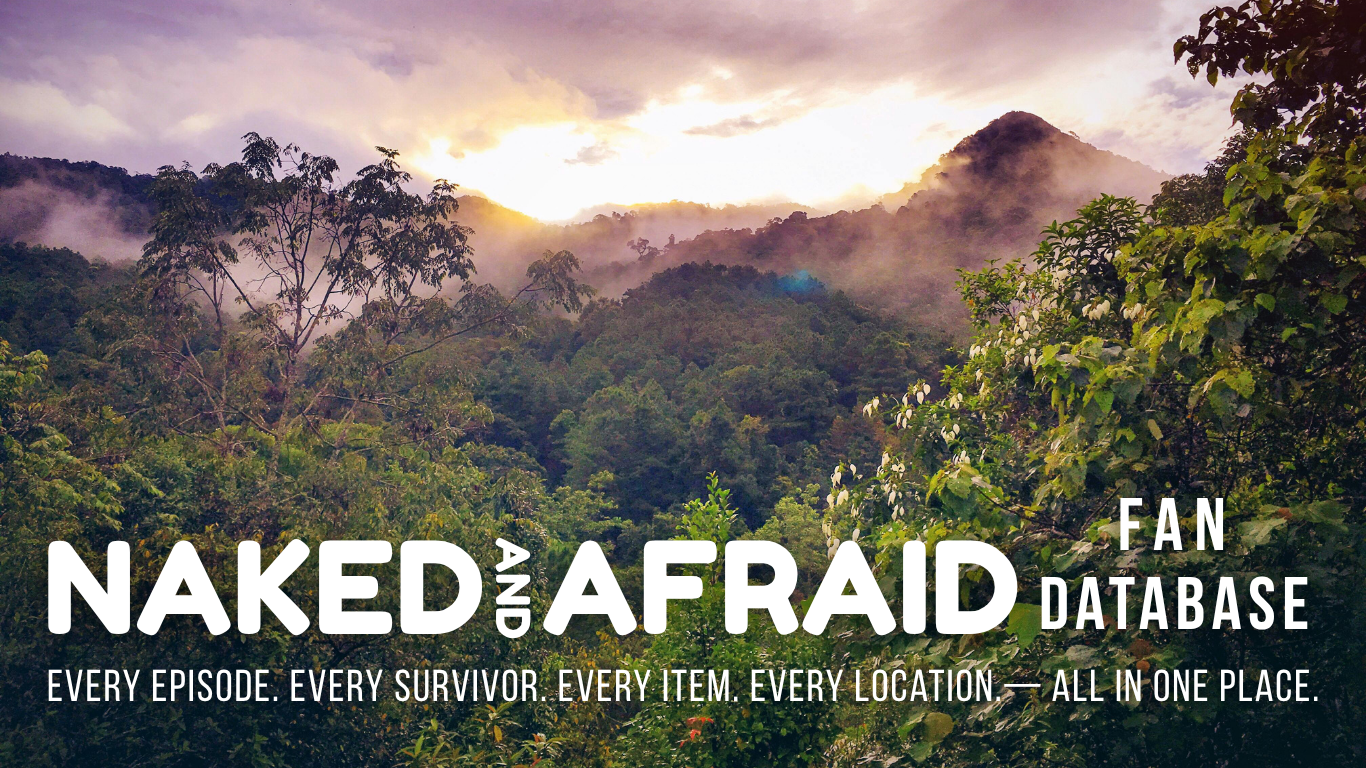
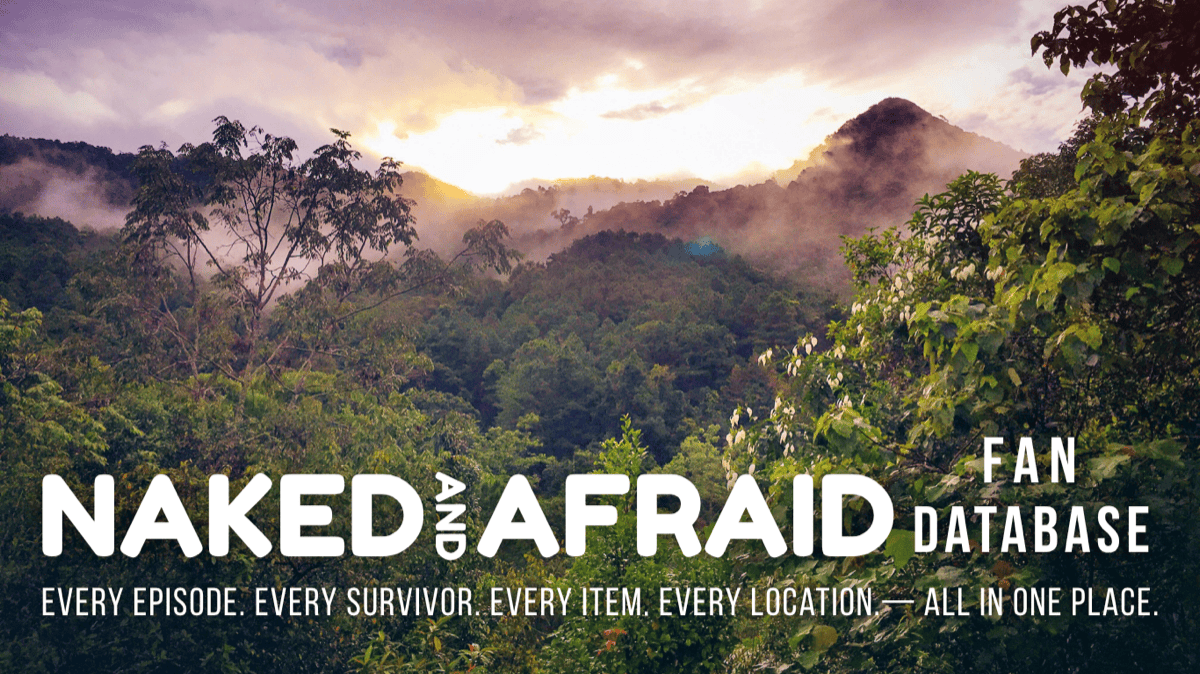
Shrink hero images + cache admin dashboard forum counters
Assets
- NAKED.png:  1366x768, 2.3 MB PNG -> 1200x674, 484 KB (5x smaller).
- favicon.png: 1024x1024, 1.5 MB -> 512x512, 72 KB (20x smaller).

Together that's ~2.7 MB less per fresh page load. Slow-request tail on the
7/21 logs was entirely mobile clients pulling these two files (worst case
13.2s for a T-Mobile visitor).

Admin dashboard
- Wrap the three forum-count queries in a 60s Rails.cache.fetch. Admin-only
  view, counters change slowly enough that staleness is invisible; skips
  three aggregate scans per render.

Changed region(s): [[0.4933, 0.9347, 0.5242, 0.9659], [0.4933, 0.6543, 0.5242, 0.6855]]

diff --git a/app/controllers/admin/dashboard_controller.rb b/app/controllers/admin/dashboard_controller.rb
@@ -35,9 +35,18 @@ module Admin
       @time_by_page  = PageView.avg_duration_by_page(10)
       @recent_views  = PageView.recent(50)
 
-      @forum_open_reports    = ::Forum::Report.status_open.count
-      @forum_topics_last_24h = ::Forum::Topic.where(created_at: 24.hours.ago..).count
-      @forum_posts_last_24h  = ::Forum::Post.where(created_at: 24.hours.ago..).count
+      # Forum counters change slowly enough that a 60s cache is invisible to
+      # the admin but skips 3 aggregate scans per dashboard render. Open
+      # reports also caches — a moderator seeing a fresh report 60s late is
+      # fine, and the "Open reports" card links straight to the queue anyway.
+      @forum_open_reports, @forum_topics_last_24h, @forum_posts_last_24h =
+        Rails.cache.fetch("admin/dashboard/forum_counts/v1", expires_in: 60.seconds) do
+          [
+            ::Forum::Report.status_open.count,
+            ::Forum::Topic.where(created_at: 24.hours.ago..).count,
+            ::Forum::Post.where(created_at: 24.hours.ago..).count
+          ]
+        end
     end
   end
 end